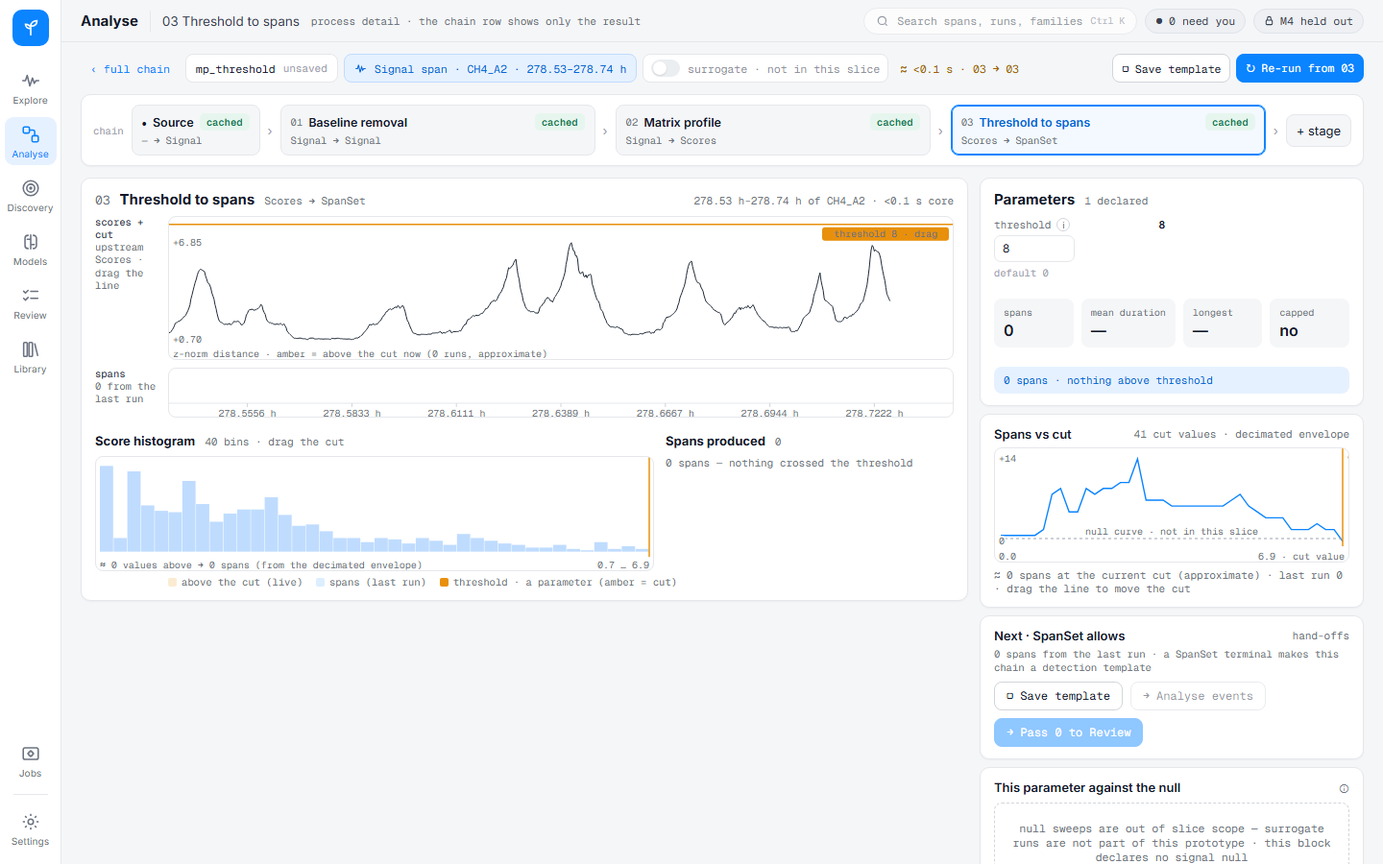
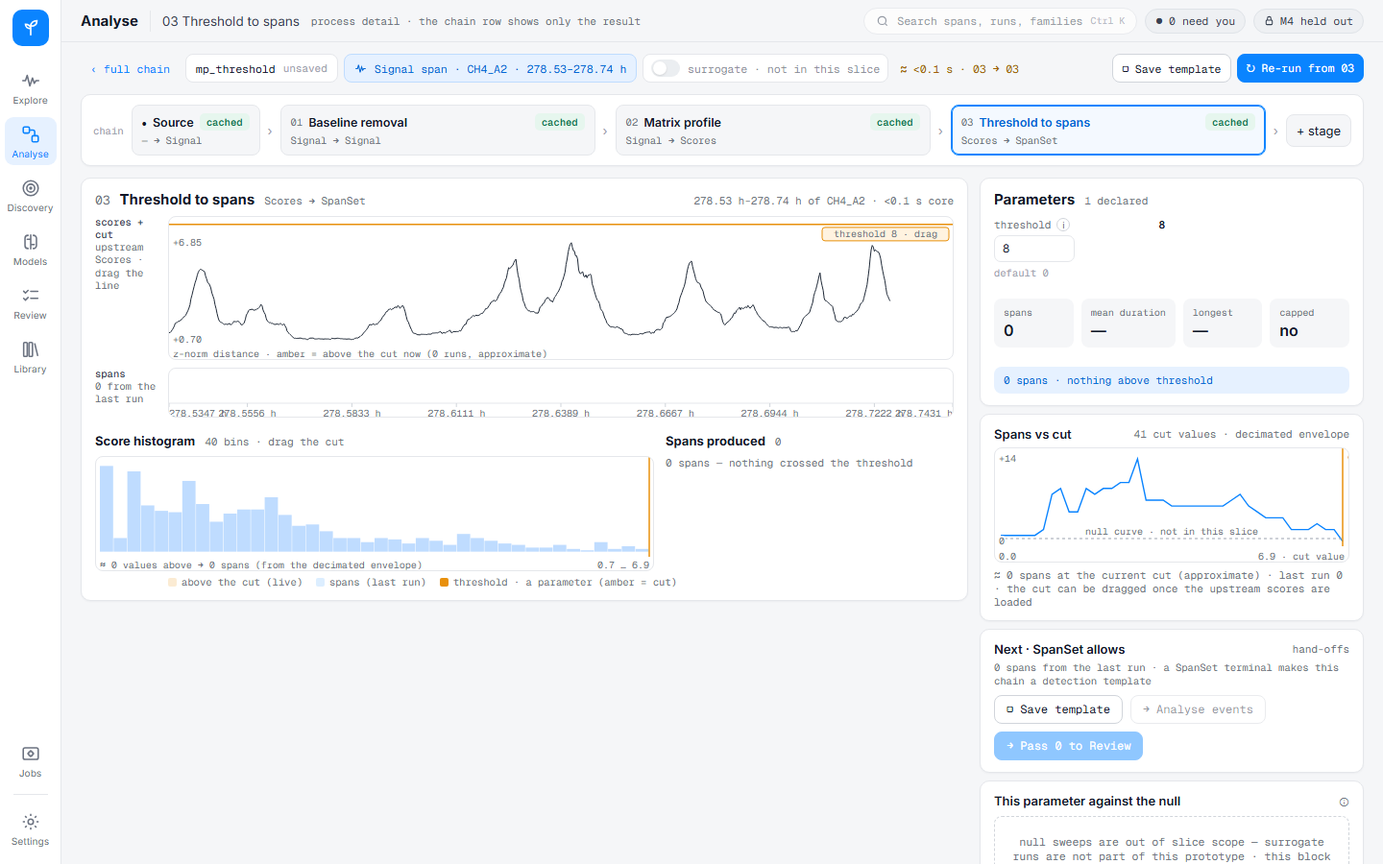
ui-proto: A — critique round 2 fixes; smoke green; real-DATA write inventory
Round 2 (bounded re-check) found no P0/P1 in A itself. Fixed P2s: block-page placeholder copy, axis
end labels, computed-vs-cached badge and chip wording, cancelled run names the stopped step, block
run label with no job, inferred null chips removed, dSAX key overlap, amber chip contrast, recommend
wording, row render-failure reset keyed on the result, dialog focus trap, estimate shown as an upper
bound. REPORT deviations refreshed (D-A13/D-A14). REAL_DATA_WRITES.md lists every file written under
the real DATA with size and hash (none deleted).

diff --git a/ui-prototypes/A-react-fastapi/client/src/analyse/BlockPage.tsx b/ui-prototypes/A-react-fastapi/client/src/analyse/BlockPage.tsx
@@ -118,7 +118,7 @@ export function BlockPage({ index }: { index: number }) {
           <span className="spacer" />
           <button className="btn" onClick={saveAsTemplate} data-testid="save-template">▢ Save template</button>
           {running ? <button className="btn danger" onClick={cancel} data-testid="cancel-button">■ Cancel</button>
-            : <button className="btn primary" onClick={rerun} disabled={!canRun} data-testid="run-button" title={runTitle}>↻ Re-run from {pad2(rerunFrom + 1)}</button>}
+            : <button className="btn primary" onClick={rerun} disabled={!canRun} data-testid="run-button" title={runTitle}>{job ? `↻ Re-run from ${pad2(rerunFrom + 1)}` : '▶ Run chain'}</button>}
         </div>
         {st.run.error && <RunErrorCard error={st.run.error} kind={st.run.errorKind} />}
         {refused && <div className="error-card" style={{ padding: '8px 12px' }} data-testid="run-refused-card"><h3>run refused by the bridge (422)</h3><div className="mono small">{refused}</div></div>}
@@ -173,7 +173,7 @@ export function BlockPage({ index }: { index: number }) {
           <div className="stack">
             <div className="card card-pad pp" data-testid="params-panel">
               <div className="pp-head"><h3>Parameters</h3><span className="muted mono small">{ad ? `${ad.params.length} declared` : ''}</span>
-                {ad?.has_recommend && <span className="rec" title="this adapter declares a recommend hook for the span · the values it would recommend are not served by this slice">▏can recommend for this span</span>}</div>
+                {ad?.has_recommend && <span className="muted small" title="this adapter declares a recommend hook · the values it would recommend are not computed in this slice">recommend hook declared · not computed in this slice</span>}</div>
               {ad ? <ParamsPanel adapter={ad} params={step.params} onChange={setParam} disabled={running} /> : <div className="muted mono small">adapter {name} is not in the registry</div>}
               {stat.length > 0 && <div className="bp-tiles" data-testid="stat-tiles">{stat.map(t => <div className="bp-tile" key={t.k}><div className="k" title={t.k}>{t.k}</div><div className={`v${t.red ? ' red' : ''}`}>{t.v}</div></div>)}</div>}
               {row.payload && <div className="bp-info">{row.payload.summary}{stale ? ' · from the last run · stale' : ''}</div>}
@@ -205,7 +205,7 @@ export function BlockPage({ index }: { index: number }) {
           <div className="acts">
             <button className="btn" onClick={revert} disabled={!ad || running} data-testid="revert-defaults" title={running ? 'wait for the run' : 'reset every parameter of this block to the adapter defaults'}>↶ Revert to defaults</button>
             {running ? <button className="btn danger" onClick={cancel}>■ Cancel</button>
-              : <button className="btn primary" onClick={rerun} disabled={!canRun} title={runTitle} data-testid="footer-rerun">↻ Re-run from {pad2(rerunFrom + 1)}</button>}
+              : <button className="btn primary" onClick={rerun} disabled={!canRun} title={runTitle} data-testid="footer-rerun">{job ? `↻ Re-run from ${pad2(rerunFrom + 1)}` : '▶ Run chain'}</button>}
           </div>
         </div>
       </div></div>
@@ -238,7 +238,7 @@ function Strip({ label, sub, height, t0, t1, children, axis, testid }: { label: 
     <div className="bp-strip" data-testid={testid}>
       <div className="lbl"><b>{label}</b>{sub}</div>
       <div className="sur plot-surface" ref={ref} style={{ height: h }}>
-        {size.width > 0 && <svg width={w} height={h}>{children(x, w, height)}{axis && <TimeAxis x={x} y={height + 2} t0={t0} t1={t1} n={7} />}</svg>}
+        {size.width > 0 && <svg width={w} height={h}>{children(x, w, height)}{axis && <TimeAxis x={x} y={height + 2} t0={t0} t1={t1} n={7} ends />}</svg>}
       </div>
     </div>
   )
@@ -259,8 +259,8 @@ function DragLineH({ y, value, onChange, width, label, colour = 'var(--amber)', 
   return (
     <g data-testid={testid}>
       <line x1={0} x2={width} y1={py} y2={py} stroke={colour} strokeWidth={1.5} />
-      <rect x={width - 136} y={py + 3} width={132} height={14} rx={3} fill={colour} />
-      <text x={width - 70} y={py + 13} textAnchor="middle" fill="#fff" style={{ fontSize: 10 }}>{label} · drag</text>
+      <rect x={width - 136} y={py + 3} width={132} height={14} rx={3} fill="var(--amber-100)" stroke={colour} />
+      <text x={width - 70} y={py + 13} textAnchor="middle" fill="#8a4b00" style={{ fontSize: 10 }}>{label} · drag</text>
       <rect x={0} y={py - 7} width={width} height={14} fill="transparent" style={{ cursor: 'ns-resize' }}
         onPointerDown={e => { drag.current = true; e.currentTarget.setPointerCapture(e.pointerId) }}
         onPointerMove={move}
@@ -307,7 +307,7 @@ function runsAbove(env: EnvelopeSeries, thr: number): { start_s: number; end_s: 
 
 /* ---------------- Scores → SpanSet: threshold ---------------- */
 function ThresholdProcess({ scores, result, threshold, onThreshold, stale, t0, t1 }: { scores: ScoresPayload | null; result: SpansetPayload | null; threshold: number; onThreshold: (v: number) => void; stale: boolean; t0: number; t1: number }) {
-  if (!scores) return <div className="muted mono small">the upstream Scores are not loaded — run the chain so 0{'N'} Matrix profile has a result, then drag the cut here</div>
+  if (!scores) return <div className="muted mono small">the upstream Scores are not loaded — run the chain so the upstream Matrix profile stage has a result, then drag the cut here</div>
   const r = scores.value_range ?? [0, 1]
   const above = runsAbove(scores.envelope, threshold)
   const hist = scores.histogram
@@ -473,7 +473,7 @@ function DsaxProcess({ signal, enc, stale, t0, t1, trend }: { signal: EnvelopeSe
         }}
       </Strip>
       <Strip label={`dSAX k ${enc?.alphabet_size ?? '?'}`} sub={enc ? `${enc.n_symbols} symbols` : ''} height={40} t0={t0} t1={t1} axis testid="dsax-strip">
-        {(x, w, h) => enc ? <g>{renderByType(enc, { x, width: w, height: h, ghost: null, t0, t1 })}{stale && <rect x={0} y={0} width={w} height={h} fill="rgba(255,255,255,0.55)" />}</g> : <text x={4} y={14} fill="var(--muted)">no encoding yet</text>}
+        {(x, w, h) => enc ? <g>{renderByType(enc, { x, width: w, height: h, ghost: null, t0, t1, hideKey: true })}{stale && <rect x={0} y={0} width={w} height={h} fill="rgba(255,255,255,0.55)" />}</g> : <text x={4} y={14} fill="var(--muted)">no encoding yet</text>}
       </Strip>
       <div className="bp-legend"><span><i style={{ background: SYM3[0] }} />down</span><span><i style={{ background: SYM3[1] }} />same</span><span><i style={{ background: SYM3[2] }} />up</span><span><i style={{ background: 'var(--blue-600)' }} />PAA mean · own scale</span><span><i style={{ background: 'var(--red)' }} />cutlines · learned</span>{enc?.representatives && <span className="muted">representatives {enc.representatives.map(v => v.toExponential(1)).join(' / ')}</span>}</div>
       {tiles.length > 0 && <div className="bp-tiles" style={{ gridTemplateColumns: 'repeat(5, 1fr)', marginLeft: 76 }} data-testid="dsax-tiles">{tiles.map(t => <div className="bp-tile" key={t.k}><div className="k" title={t.k}>{t.k}</div><div className="v">{t.v}</div></div>)}</div>}
@@ -519,7 +519,7 @@ function SpansVsCut({ scores, threshold, onThreshold, resultN, stale }: { scores
         })()}
         {size.width > 0 && !curve && <div className="an-plot-empty">run the chain so the upstream Scores are loaded</div>}
       </div>
-      <div className="muted mono small" style={{ marginTop: 6 }}>{nowN !== null ? `≈ ${nowN} span${nowN === 1 ? '' : 's'} at the current cut (approximate)` : '—'}{resultN !== null ? ` · last run ${resultN}${stale ? ' · stale' : ''}` : ''} · drag the line to move the cut</div>
+      <div className="muted mono small" style={{ marginTop: 6 }}>{nowN !== null ? `≈ ${nowN} span${nowN === 1 ? '' : 's'} at the current cut (approximate)` : '—'}{resultN !== null ? ` · last run ${resultN}${stale ? ' · stale' : ''}` : ''} · the cut can be dragged once the upstream scores are loaded</div>
     </div>
   )
 }
@@ -544,7 +544,7 @@ function GenericProcess({ payload, ghost, stale, t0, t1, caption }: { payload: P
         {size.width > 0 && (payload ? renderByType(payload, { x, width: w, height: h, ghost, t0, t1 }) : <div className="an-plot-empty">no result yet · run the chain</div>)}
         {stale && payload && <><div className="an-plot-veil" /><Veil on /></>}
       </div>
-      <div style={{ paddingTop: 2 }}><svg width="100%" height={20}><TimeAxis x={x} y={2} t0={t0} t1={t1} n={7} /></svg></div>
+      <div style={{ paddingTop: 2 }}><svg width="100%" height={20}><TimeAxis x={x} y={2} t0={t0} t1={t1} n={7} ends /></svg></div>
     </>
   )
 }

diff --git a/ui-prototypes/A-react-fastapi/client/src/analyse/ChainPage.tsx b/ui-prototypes/A-react-fastapi/client/src/analyse/ChainPage.tsx
@@ -174,7 +174,7 @@ export function ChainPage() {
   const prefixCached = (i: number) => { for (let k = 0; k <= i; k++) if (!val.v?.cache?.[k]?.cached) return false; return true }
   const allCachedFrom = (from: number) => n > from && Array.from({ length: n - from }, (_, k) => prefixCached(from + k)).every(Boolean)
   const estFrom = (from: number) => perStep ? perStep.slice(from).reduce((a, b, k) => a + (prefixCached(from + k) ? 0 : b), 0) : null
-  const fmtEst = (s: number | null) => s === null ? '≈ —' : s < 0.05 ? '≈ <0.1 s' : `≈ ${fmtDuration(s)}`
+  const fmtEst = (s: number | null) => s === null ? '≈ —' : s < 0.05 ? '≈ <0.1 s' : `≤ ${fmtDuration(s)} core est.`   // estimate_recipe_seconds is a calibrated upper bound, measured 70–230× high on short spans
   let est: { text: string; kind: 'amber' | 'blue' | 'red' | 'green' }
   if (running && job) {
     const cur = job.current_step ?? 0
@@ -183,7 +183,7 @@ export function ChainPage() {
   else if (failedStep !== null && st.staleFrom === null) est = { text: `failed at ${pad2(failedStep + 1)} · ${failedStep > 1 ? `01–${pad2(failedStep)} cached` : failedStep === 1 ? '01 cached' : 'nothing cached'}`, kind: 'red' }
   else if (!source) est = { text: 'no source · nothing to estimate', kind: 'amber' }
   else if (stale !== null) est = allCachedFrom(stale) ? { text: '≈ <0.1 s · all in the step cache', kind: 'green' } : { text: `${fmtEst(estFrom(stale))} · ${pad2(stale + 1)} → ${pad2(n)}`, kind: 'amber' }
-  else if (job?.status === 'completed') est = { text: `${fmtEst(0)} · all cached`, kind: 'green' }
+  else if (job?.status === 'completed') { const tv = Object.values(job.step_timings ?? {}); const fromCache = tv.filter(v => v === 0).length; est = { text: fromCache === tv.length ? '≈ <0.1 s · all from the step cache' : `${tv.length - fromCache} computed · ${fromCache} from the step cache`, kind: 'green' } }
   else if (allCachedFrom(0)) est = { text: '≈ <0.1 s · all in the step cache', kind: 'green' }
   else est = { text: `${fmtEst(estFrom(0))} · 01 → ${pad2(n)}`, kind: 'amber' }
   if (over.length && !running) est = { ...est, text: `${est.text} · ${over.length} over the local ceiling`, kind: 'red' }
@@ -227,7 +227,7 @@ export function ChainPage() {
     const jstep = job && sameStep(job.recipe.steps[i], step) ? job.steps[i] : undefined
     const caption = r.payload?.summary ?? (r.hasResult ? '' : null) ?? (jstep?.summary && r.status !== 'new' ? jstep.summary : paramCaption(step, ad))
     const timing = (r.status === 'cached' && r.timing !== null && r.timing !== 0) ? fmtTiming(r.timing) : null
-    const badgeText = r.status === 'cached' && r.timing === 0 ? 'cached · 0 s' : r.status === 'waiting' ? '⌛ waiting' : undefined
+    const badgeText = r.status === 'cached' && r.timing === 0 ? 'cached · 0 s' : r.status === 'cached' && r.timing !== null && r.timing !== 0 ? 'computed · now cached' : r.status === 'waiting' ? '⌛ waiting' : undefined
     const badgeTitle = r.status === 'cached' ? (r.timing === 0 ? 'restored from the prefix cache (core step time 0.0 s)' : r.timing !== null ? `core step time ${r.timing.toFixed(3)} s` : 'predicted from the prefix cache · run to load the result') : r.status === 'stale' ? 'a parameter or an upstream stage changed since this result' : undefined
     const ghost = ghostFor(i)
     const elapsed = r.status === 'running' ? stepElapsed(i) : 0
@@ -295,7 +295,7 @@ export function ChainPage() {
       )
     }
     return (
-      <ChainRow key={`step-${i}`} testIndex={i + 1} rowClass={r.status === 'failed' || r.status === 'invalid' ? r.status : ''} num={pad2(i + 1)} title={title} badge={r.status} badgeText={badgeText} badgeTitle={badgeTitle} timingText={timing}
+      <ChainRow key={`step-${i}`} testIndex={i + 1} rowClass={r.status === 'failed' || r.status === 'invalid' ? r.status : ''} num={pad2(i + 1)} title={title} badge={r.status} badgeText={badgeText} badgeTitle={badgeTitle} timingText={timing} resetKey={`${job?.job_id ?? 'none'}-${i}`}
         signature={sig} caption={caption} t0={t0} t1={t1} plot={plot} overlay={overlay} replace={replace}
         onSettings={() => navigate(`analyse/block/${i}`)} onDelete={running ? undefined : () => deleteStep(i)} />
     )
@@ -452,7 +452,7 @@ function FooterAxis({ t0, t1, enabled }: { t0: number; t1: number; enabled: bool
   return (
     <div className="an-axis" data-testid="footer-axis">
       <span className="lbl">all rows share this time axis</span>
-      <div ref={ref} style={{ height: 22 }}>{enabled && size.width > 0 && <svg width={w} height={22}><TimeAxis x={x} y={2} t0={t0} t1={t1} n={7} /></svg>}</div>
+      <div ref={ref} style={{ height: 22 }}>{enabled && size.width > 0 && <svg width={w} height={22}><TimeAxis x={x} y={2} t0={t0} t1={t1} n={7} ends /></svg>}</div>
     </div>
   )
 }

diff --git a/ui-prototypes/A-react-fastapi/client/src/analyse/ChainRow.tsx b/ui-prototypes/A-react-fastapi/client/src/analyse/ChainRow.tsx
@@ -28,6 +28,7 @@ export interface ChainRowProps {
   overlay?: ReactNode                // over the plot: progress, waiting, stale pill, veil
   onSettings?: () => void
   onDelete?: () => void
+  resetKey?: string                  // a new result (job/step) clears a lifted render failure
   inertIcons?: boolean               // bypass / duplicate (inert everywhere)
 }
 
@@ -46,7 +47,7 @@ export function ChainRow(p: ChainRowProps) {
   // a renderer throw is lifted out of the ErrorBoundary into the row's own badge and border (critique r1:
   // a green "cached" badge sat beside a red "failed to render" card); a new result clears it
   const [renderFailed, setRenderFailed] = useState<string | null>(null)
-  useEffect(() => { setRenderFailed(null) }, [p.badge, p.caption, p.badgeText])
+  useEffect(() => { setRenderFailed(null) }, [p.resetKey])   // critique r2: keyed on the result, not on badge/caption text
   const badge = renderFailed ? 'error' : p.badge
   const badgeText = renderFailed ? 'render failed' : p.badge === 'error' ? 'payload error' : p.badgeText ?? (p.badge === 'source-cached' ? 'cached' : p.badge)
   const badgeTitle = renderFailed ? `the renderer threw: ${renderFailed}` : p.badge === 'error' ? 'the bridge could not serialise this result, or its fetch failed — see the card' : p.badgeTitle
@@ -76,7 +77,7 @@ export function ChainRow(p: ChainRowProps) {
         <div data-testid={`row-plot-${p.testIndex}`}>{p.replace}</div>
       ) : (
         <div className="plot-surface an-plot" ref={ref} data-testid={`row-plot-${p.testIndex}`}>
-          <ErrorBoundary label={label} onError={e => setRenderFailed(e.message)}>
+          <ErrorBoundary key={p.resetKey ?? 'row'} label={label} onError={e => setRenderFailed(e.message)}>
             {size.width > 0 && p.plot(x, w, PLOT_H)}
           </ErrorBoundary>
           {p.overlay}

diff --git a/ui-prototypes/A-react-fastapi/client/src/analyse/InsertStageModal.tsx b/ui-prototypes/A-react-fastapi/client/src/analyse/InsertStageModal.tsx
@@ -88,7 +88,7 @@ export function InsertStageModal({ steps, position, adapters, source, onClose, o
     return (
       <button className={`ins-card${ok ? '' : ' nofit'}${selected === a.name ? ' selected' : ''}`} onClick={() => ok && setSelected(a.name)} disabled={!ok} data-testid={`modal-card-${a.name}`} title={ok ? a.description : row?.reason}>
         <div className="hd"><Glyph adapter={a} /><div style={{ minWidth: 0 }}><div className="nm">{a.page_name}</div><div className="sg">{a.signature}</div></div></div>
-        <div className="chips"><span>{estText(a)}</span><span className={a.input_kind === 'signal' ? 'g' : ''}>{a.input_kind === 'signal' ? 'has null' : 'no null'}</span>{a.side_inputs.length > 0 && <span className="purple" style={{ background: 'var(--purple-100)', color: '#6a3ecf' }}>needs {a.side_inputs.map(s => s.name).join(', ')}</span>}</div>
+        <div className="chips"><span>{estText(a)}</span><span title="the core's null is a paired surrogate run, not a per-adapter declaration · surrogate runs are out of slice scope">null · not declared</span>{a.side_inputs.length > 0 && <span className="purple" style={{ background: 'var(--purple-100)', color: '#6a3ecf' }}>needs {a.side_inputs.map(s => s.name).join(', ')}</span>}</div>
         <div className={`fit${ok ? '' : ' no'}`}>{ok ? '✓ fits here' : `⊘ ${row?.reason ?? 'not evaluated'}`}</div>
         {a.known_broken && <div className="broken" title={a.known_broken}>⚠ known broken · {a.known_broken}</div>}
       </button>

diff --git a/ui-prototypes/A-react-fastapi/client/src/shell/useDismiss.ts b/ui-prototypes/A-react-fastapi/client/src/shell/useDismiss.ts
@@ -4,7 +4,18 @@ import { useEffect, type RefObject } from 'react'
 export function useDismiss(ref: RefObject<HTMLElement | null>, onClose: () => void, active = true) {
   useEffect(() => {
     if (!active) return
-    const onKey = (e: KeyboardEvent) => { if (e.key === 'Escape') { e.stopPropagation(); onClose() } }
+    const onKey = (e: KeyboardEvent) => {
+      if (e.key === 'Escape') { e.stopPropagation(); onClose(); return }
+      // critique r2: keep Tab inside a dialog (aria-modal) instead of walking to the page behind it
+      const el = ref.current
+      const dlg = el?.matches('[role=dialog]') ? el : el?.querySelector<HTMLElement>('[role=dialog]')
+      if (e.key !== 'Tab' || !dlg) return
+      const items = Array.from(dlg.querySelectorAll<HTMLElement>('button:not([disabled]), input:not([disabled]), select:not([disabled]), textarea:not([disabled]), [tabindex]:not([tabindex="-1"])'))
+      if (!items.length) return
+      const first = items[0], last = items[items.length - 1]
+      if (e.shiftKey && (document.activeElement === first || !dlg.contains(document.activeElement))) { e.preventDefault(); last.focus() }
+      else if (!e.shiftKey && (document.activeElement === last || !dlg.contains(document.activeElement))) { e.preventDefault(); first.focus() }
+    }
     const onDown = (e: PointerEvent) => {
       const el = ref.current
       if (el && !el.contains(e.target as Node)) onClose()

diff --git a/ui-prototypes/A-react-fastapi/client/src/analyse/Renderer.tsx b/ui-prototypes/A-react-fastapi/client/src/analyse/Renderer.tsx
@@ -15,6 +15,7 @@ export interface RenderCtx {
   x: XScale; width: number; height: number
   ghost?: EnvelopeSeries | null      // the nearest upstream signal, drawn behind in grey
   t0: number; t1: number
+  hideKey?: boolean                  // block pages carry the key in their own legend row
   throwForTest?: boolean             // ?throw=1: prove the ErrorBoundary catches a renderer throw
 }
 
@@ -138,9 +139,9 @@ function SymbolicR({ p, ctx }: { p: EncodingSymbolicPayload; ctx: RenderCtx }) {
           </g>
         )
       })}
-      <text x={ctx.width - 6} y={ctx.height - 5} textAnchor="end" fill="var(--muted)" style={{ paintOrder: 'stroke', stroke: '#fff', strokeWidth: 3 }}>
+      {!ctx.hideKey && <text x={ctx.width - 6} y={ctx.height - 5} textAnchor="end" fill="var(--muted)" style={{ paintOrder: 'stroke', stroke: '#fff', strokeWidth: 3 }}>
         {p.alphabet_size === 3 ? 'amber down · grey same · blue up' : `alphabet ${p.alphabet_size} · categorical`}{p.capped ? ' · capped' : ''}
-      </text>
+      </text>}
     </svg>
   )
 }

diff --git a/ui-prototypes/A-react-fastapi/server/runs.py b/ui-prototypes/A-react-fastapi/server/runs.py
@@ -252,6 +252,8 @@ class RunManager:
                     s["status"] = "cancelled"
             job.status = "cancelled"
             job.finished_at = time.time()
+            first_cancelled = next((s["index"] for s in job.steps if s["status"] == "cancelled"), i)
+            i = first_cancelled   # critique r2: name the stage that was stopped, not the last one that finished
             job.error = {"step": i, "message": str(e), "type": "RecipeCancelled"}
             self._emit(job, {"event": "run_end", "status": "cancelled", "step": i, "message": str(e),
                              "db_run_id": job.db_run_id, "elapsed_s": time.perf_counter() - t0})

diff --git a/ui-prototypes/REPORT.md b/ui-prototypes/REPORT.md
@@ -153,9 +153,45 @@ canonical time axis (spec §0, hours since start) versus the frames' seconds on 
 
 **P2 (30) — fixed unless noted.** db_run_id on failed/cancelled runs; cancelled runs shown as failed in history; params normalised before hashing; captions/failed message ellipsised; Ctrl+Z undo; Escape/dialog role/focus; threshold line red→amber; 'Spans vs cut' + hand-offs cards on the threshold page; per-adapter glyphs (were keyed on signature only); dSAX cutline strip empty after a cached run; '= recommended' meant '= default'; degenerate 'disagree' count; 'N need you' counted every failed job in the server; first tick label half off-surface; linear heatmap ramp collapsed by one hot cell; motif label overprinting y labels; 'overlay F-03 medoid' placeholder leak; empty Model card; toast killed before painting; badge/plot disagreement on an undrawable payload; Explore had no per-tier error boundary; estimate chip ignored the cache prediction; elapsed counter restarted after reload; TYPE_LABEL duplicated server/client; read endpoints accepted inverted windows; fit-from-deep-zoom stretched path for one round trip; **left open:** full keyboard operability of handles/heatmap/cut line (partial: handles + span svg only), per-card estimates in the insert modal (needs a hypothetical-recipe endpoint), motif *pairs* from the core.
 
-### A — round 2
+### The pytest gate (rule 7)
 
-(filled after round 2)
+`pytest -n auto` in the worktree: **1296 passed, 41 failed** in 406 s. The failures are
+pre-existing on `main` @ 208e72c, not caused by the prototypes: every tested tree is byte-identical
+to `main` (`git diff --stat main -- Working Adapters UI tests scripts` is empty) and pytest only
+collects `tests/`. They are a test/code contract mismatch (`LibraryGrid(conn)` in the tests versus
+`LibraryGrid(app)` in `UI/workspaces/library/grid.py`) and Windows file locks at teardown
+(`PermissionError [WinError 32]` on still-mapped temp `.npy`/`.sqlite`, reproduced serially). The
+run also wrote into the real DATA through the junction (§7, question 1), so it was not re-run.
+
+### A — round 2 (bounded re-check; the first two launches were killed by usage limits)
+
+**Verdicts.** Fidelity: every round-1 fidelity finding fixed or partly fixed in the live app, no
+P0/P1, no placeholder leakage (`708` appears only as CH1_A1's real count). Backend: every round-1
+backend finding fixed *in the running server*; core untouched; cache hits real (prefix timings 0.0,
+restored Scores keep `m` via the sidecar); peaks exact at 721 h and 60 s; seven types dispatched;
+M4 423 on every route. Robustness: every forced error visible, never blank; reload mid-run
+re-attaches on the server clock; zoom over 721 h median round trip 9.4 ms (min 6.1 / max 69.1 over
+23 fetches, paint median 12 ms).
+
+**P0 (2, both real-data writes, neither fixable by deletion under rule 5).** The round-1 stray joblib
+is still present (documented), and the **repo's own pytest suite wrote into the real DATA** through
+the junction (DECISIONS §10; `REAL_DATA_WRITES.md` lists every file with size and hash).
+
+**Fixed after round 2 (P2).** Literal "0N" in block-page copy; stale REPORT §5 (D-A3 reworded,
+meta-sidecar noted, D-A13/D-A14 added); chain and block axes print their t0/t1 ends; a computed step
+reads "computed · now cached" and the chip says "N computed · M from the step cache" instead of "all
+cached"; a cancelled run names the step that never started; the block page says "▶ Run chain" when
+nothing has run for the source; inferred "has null" chips removed; the dSAX in-plot key no longer
+covers the strip; the amber threshold chip is legible; the recommend header no longer claims values
+it does not have; a row render failure keeps its "render failed" badge until a new result arrives
+(round 1 had fixed this only for the source row); Tab is trapped inside dialogs; estimates read "≤ N
+core est.".
+
+**Left open (stop rule).** Y-axis labels and matrix-profile motif chips still overprint traces in
+chain rows; adding an eighth type still touches four files and the block page still dispatches on the
+adapter name inside one 550-line file; Explore does not warn that a dragged span exceeds the default
+chain's local ceiling (Analyse does); full keyboard operability of the heatmap and cut line; per-card
+estimates in the insert modal; motif pairs from the core.
 
 ## 5. Deviations from the pages/spec, with justification
 
@@ -163,7 +199,7 @@ canonical time axis (spec §0, hours since start) versus the frames' seconds on 
 |---|---|---|---|
 | D-A1 | The default chain is Baseline removal (detrend) → Matrix profile → Threshold-to-spans, not baseline → noise floor → symbolic encoding → drop detection | `Encoding` is terminal in the registry: no adapter consumes it, so "Encoding → SpanSet" cannot exist. The brief says compose the closest real chain. dSAX, window-matrix/cluster/classifier and gramian chains are built-in templates so all seven types run | §6.1, chain-1 |
 | D-A2 | The draggable control is the **threshold** on the Threshold-to-spans page, not SAX cutlines | SAX cutlines are *learned* by the adapters (Lloyd-Max / Mean-Shift / KDE) and surfaced in `meta.details`, not parameters; drawing them is honest but dragging them would assert a parameter the core does not have. The dSAX page draws the learned cutlines dashed and labelled "learned · not a parameter" | §6.8 row `Signal → Encoding`; chain-3 |
-| D-A3 | Surrogate toggle is on-by-default but inert; "This parameter against the null" is an explicit empty state | Null runs are out of slice scope; the core's null is a paired `preprocessing.surrogate` run, not a per-adapter declaration | §6.8 null column; chain-3 |
+| D-A3 | Surrogate toggle is rendered OFF and disabled ("surrogate · not in this slice"), footers say "no null", the insert modal shows "null · not declared" rather than inferring one, and "This parameter against the null" is an explicit empty state | Null runs are out of slice scope; the core's null is a paired `preprocessing.surrogate` run, not a per-adapter declaration | §6.8 null column; chain-2, chain-3 |
 | D-A4 | Progress is per step with an elapsed timer, never a percentage | `execute_recipe` reports `on_progress(i, n, …)` before each step and `on_step_result` after; no within-step fraction (except window_matrix's own callback) | chain-1d "64 % · 0.2 s left" |
 | D-A5 | Cancel takes effect between steps | The core polls `should_cancel` once before each step | chain-1d Cancel |
 | D-A6 | Header chips are real counts ("N need you" = failed jobs this session; "Jobs · N" = running jobs); the frames' "3 need you", "6 runs · 4 methods", "708 / 1284" are not copied | "Nothing claims more than it knows" (§3); real data wins | shell-header, explore-1/2 |
@@ -173,9 +209,11 @@ canonical time axis (spec §0, hours since start) versus the frames' seconds on 
 | D-A10 | Inert controls are visible and titled "out of slice scope" (Cross-channel, Review actions, medoid overlay, bypass/duplicate/reorder, SLURM/upload, Analyse events, Pass to Review) | Brief: other workspaces visible but inert; keep the shape, do not fake behaviour | various |
 | D-A11 | Save span / tags / note are client-side stubs that write nothing | Explore never writes verdicts (P6); no annotation write path exists in this prototype at all | §5.2 |
 | D-A12 | Insert modal shows an estimate only for the selected card ("est. at run" on the others) | The core estimates a *recipe*, not a block; per-card estimates would need 22 hypothetical validations | chain-2 "≈ 0.2 s" per card |
+| D-A13 | A stage over its local ceiling disables Run (with the reason) and the bridge refuses the run with 422; it does not pause at that stage and hand off to HPC | Pausing needs the manifest-inbox / SLURM flow, out of slice scope; running it locally fails at once | §12 P4, P24; §9.6; chain-1g |
+| D-A14 | Estimates are shown as "≤ N core est." | `estimate_recipe_seconds` is a calibrated upper bound; measured 70–230× above actual on short spans, so "≈" would mislead | chain-1 "≈ 0.6 s" |
 
 **Backend gaps wrapped or stubbed** (none required editing the core):
-- No public read API for step outputs → payloads are built in `on_step_result` and kept in server memory per job; a cache-restored value loses `AdapterResult.meta` (SAX cutlines, MP indices), so those details exist only for steps that ran in this server's lifetime.
+- No public read API for step outputs → payloads are built in `on_step_result` and kept in server memory per job. A cache-restored step loses `AdapterResult.meta` (SAX cutlines, MP window, model card) in the core; the bridge keeps a JSON meta sidecar per prefix hash at first compute and restores it on a hit, so cached re-runs show the same detail.
 - `validate_recipe_steps` reports only the first bad junction, and treats an unknown adapter as valid → `server/chain.py` walks every junction with `check_step_compatibility` and reports unknown blocks as invalid.
 - `UI/analyse/chain_state.py` cannot be imported headless through its package (pulls Panel) and has no insert-at-position check → not reused (DECISIONS §4).
 - Step cache only writes steps > 1.0 s → `STEP_CACHE_WRITE_THRESHOLD_S` set to 0.0 in the redirected runtime.
@@ -222,8 +260,16 @@ reload-mid-run).
 (finalised at close-out; the items below are the ones already known after A)
 
 Open questions for you:
-1. **The stray joblib in the real `DATA/derived/models`** (§4, P0): delete it by hand, or keep it?
-   It is one additive 14 kB file from a read-only reader that executed the classifier adapter.
+1. **Files written into the real `DATA/` during the night — none deleted, all yours to decide.**
+   - `DATA/derived/models/catalogue_classifier_153815b9dea451b2.joblib` (14 kB): written by a
+     read-only *reader* subagent that executed the classifier adapter directly (§4, P0).
+   - Written by **the repo's own pytest suite** when I ran it as the brief's rule 7 asked, because
+     the worktree's `DATA` is a junction to the real data while the tests assume a local fixture
+     `DATA/`: 5 step-cache files re-written with identical sizes, 5 `UNITTEST_encoding_view*` text
+     files, 4 new classifier joblibs and one existing one (`…f918586712c715e2`) overwritten.
+     Exact list in DECISIONS.md §10. `annotations.sqlite` is unchanged.
+   - Worth a ticket: the brief's junction-plus-pytest combination is unsafe for this repo; either
+     tests redirect `STEP_CACHE_ROOT`/`MODEL_ROOT`/`ENCODING_ROOT`, or worktrees get a copied DATA.
 2. **Time axis convention.** Spec §0 says hours since recording start; frame chain-1 prints
    seconds for a 50 s span at t = 0. A uses hours with span-adaptive decimals everywhere. Confirm.
 3. **SAX cutlines.** §6.8 asks for draggable cutlines on the Encoding page, but the adapters learn

diff --git a/ui-prototypes/REAL_DATA_WRITES.md b/ui-prototypes/REAL_DATA_WRITES.md
@@ -1,0 +1,24 @@
+# Files under the real DATA/ written or re-written during the prototyping task
+
+Generated 2026-09-15 18:44 +1000 by comparing against `ui-prototypes/DATA_MTIMES_START.txt` (taken 2026-09-14 22:58 +10:00). Read-only inventory: nothing here has been deleted or modified by me after it was written. `DATA/db/annotations.sqlite` is unchanged (mtime and size equal the snapshot).
+
+| mtime (local) | bytes | sha256 (first 16) | path | writer |
+|---|---|---|---|---|
+| 2026-09-15 17:35:07 | 260 | `d188306186bf4e06` | `DATA/derived/encodings/UNITTEST_encoding_view/CH00/sax_csax/51c72fd8.txt` | repo pytest (`tests/test_encoding_view*.py`) |
+| 2026-09-15 17:35:12 | 260 | `f49ee102ca3ac2a0` | `DATA/derived/encodings/UNITTEST_encoding_view/CH00/sax_csax/643d2cbd.txt` | repo pytest (`tests/test_encoding_view*.py`) |
+| 2026-09-15 17:34:49 | 300 | `eac93bb519e96f1d` | `DATA/derived/encodings/UNITTEST_encoding_view/CH00/sax_csax/64d04805.txt` | repo pytest (`tests/test_encoding_view*.py`) |
+| 2026-09-15 17:34:26 | 300 | `eac93bb519e96f1d` | `DATA/derived/encodings/UNITTEST_encoding_view_dsax/CH00/sax_csax/64d04805.txt` | repo pytest (`tests/test_encoding_view*.py`) |
+| 2026-09-15 17:34:31 | 300 | `f38c73d186596a4a` | `DATA/derived/encodings/UNITTEST_encoding_view_dsax/CH00/sax_dsax/c0c3bf2b.txt` | repo pytest (`tests/test_encoding_view*.py`) |
+| 2026-09-14 23:05:59 | 13986 | `de3ee2a7bca7a1cc` | `DATA/derived/models/catalogue_classifier_153815b9dea451b2.joblib` | reader subagent executed `catalogue.classifier` directly (critique r1 P0) |
+| 2026-09-15 17:34:55 | 244162 | `72efb24d54265c2e` | `DATA/derived/models/catalogue_classifier_16750c76ade64016.joblib` | repo pytest (classifier tests) |
+| 2026-09-15 17:34:44 | 239522 | `121378d632e51e90` | `DATA/derived/models/catalogue_classifier_31895944e26935a4.joblib` | repo pytest (classifier tests) |
+| 2026-09-15 17:34:58 | 238882 | `92f9005385b986d8` | `DATA/derived/models/catalogue_classifier_3d7fd04e0904dcc5.joblib` | repo pytest (classifier tests) |
+| 2026-09-15 17:34:39 | 234002 | `60e5633456405651` | `DATA/derived/models/catalogue_classifier_ad10caaed29d1ad4.joblib` | repo pytest (classifier tests) |
+| 2026-09-15 17:34:37 | 238930 | `634d2b455fe34486` | `DATA/derived/models/catalogue_classifier_f918586712c715e2.joblib` | repo pytest — **overwrote** a file that existed since 2026-09-04 |
+| 2026-09-15 17:36:26 | 17385 | `400b3c75dd82cb21` | `DATA/derived/step_cache/0111ee82fdd4302165cda63db09acee06db7db2696161bdb6e9df05c09ee38d0/0/features.parquet` | repo pytest (`tests/test_step_cache.py`), same size as before — re-written |
+| 2026-09-15 17:36:26 | 588 | `f9a14330174c7897` | `DATA/derived/step_cache/0111ee82fdd4302165cda63db09acee06db7db2696161bdb6e9df05c09ee38d0/0/windowset.npz` | repo pytest (`tests/test_step_cache.py`), same size as before — re-written |
+| 2026-09-15 17:36:39 | 8575 | `0f5d2eaa4a2209a3` | `DATA/derived/step_cache/0a00dbd38655d9083fa3a375a43131a698ffd8744b773146784ca95ebaf99ae4/0/scores.npz` | repo pytest (`tests/test_step_cache.py`), same size as before — re-written |
+| 2026-09-15 17:36:55 | 31295 | `75644a50d4afce4c` | `DATA/derived/step_cache/2a42e965b8a5c70d410f3c0a8e56cf342e9c1ba5b4c4d795bd5e1407899a02fb/0/scores.npz` | repo pytest (`tests/test_step_cache.py`), same size as before — re-written |
+| 2026-09-15 17:36:35 | 1030 | `fae877e38d8edec3` | `DATA/derived/step_cache/bf50caf24febd94b8b8d57fb6434cadd370097266fe33fdfaf76afb6d696d9f9/0/scores.npz` | repo pytest (`tests/test_step_cache.py`), same size as before — re-written |
+
+To remove only the files that did not exist before the task (leave the step_cache and the overwritten joblib in place, since those paths existed): delete the rows above whose writer is not 're-written' or 'overwrote'. I have not done this: removing anything under DATA/ is the user's call.

diff --git a/ui-prototypes/DECISIONS.md b/ui-prototypes/DECISIONS.md
@@ -360,3 +360,12 @@ None of these were deleted (rule 5). They are listed for the user. Consequence f
 rule 7: the suite **must not be re-run in a worktree whose DATA is a junction to the real data**;
 I have not re-run it, and the closing DATA check reports these files as UNEXPECTED rather than
 accepting them silently.
+
+## 11. Critique round 2 → final fixes for A (stop rule applied)
+
+Round 2 completed on the third launch (bounded re-check, incremental progress file). No P0/P1 in A's
+product; the two P0s are the real-data write inventory (`REAL_DATA_WRITES.md`). I applied 23 small
+P2 edits directly (block-page copy, axis end labels, computed-vs-cached wording, cancelled step index,
+run label, null chips, symbol key, chip contrast, recommend wording, row render-failure reset key,
+dialog focus trap, estimate wording) plus REPORT §5 corrections. Smoke test green again (0 failures,
+19 screenshots). Per the brief, A stops here; remaining P2s are listed in REPORT §4.
